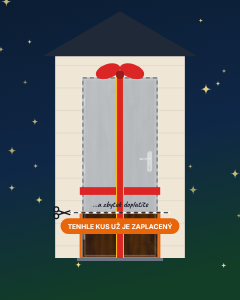
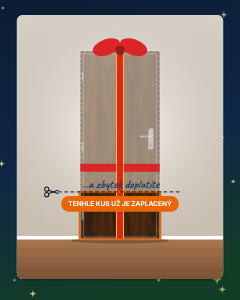
Dárkové poukazy: nový obrázek dveří v interiéru a štítek Moje dveře
Claude-Session: https://claude.ai/code/session_0146mcrxDADoYoPDTfh2mSsr

diff --git a/poukaz/poukaz.js b/poukaz/poukaz.js
@@ -80,107 +80,121 @@
   function logo(g, x, y, w2) { if (IMG.logo) g.drawImage(IMG.logo, x, y, w2, w2 * IMG.logo.naturalHeight / IMG.logo.naturalWidth); }
   function fnt(g, rodina, tloustka, pt, S) { g.font = (tloustka === 'bold' ? '700 ' : '400 ') + (pt * 0.3528 * S) + 'px ' + rodina + ', Arial, sans-serif'; }
 
-  /* ── scéna: dveře s „odstřiženým“ zaplaceným kusem + motiv (x, y, w, h v mm; S = px na mm) ── */
+  /* štítek „Moje dveře · aplikace v ceně“ (jako na webu, moje-dvere-stitek.js); x, y = levý horní roh, v = výška v mm */
+  function mdStitek(g, x, y, v, uhel) {
+    var w2 = v * 3.5;
+    g.save(); g.translate(x + w2 / 2, y + v / 2); g.rotate(uhel == null ? -0.05 : uhel); g.translate(-w2 / 2, -v / 2);
+    g.shadowColor = 'rgba(0,0,0,.3)'; g.shadowBlur = v * 0.5; g.shadowOffsetY = v * 0.12;
+    var gr = g.createLinearGradient(0, 0, w2, v); gr.addColorStop(0, '#1f6b45'); gr.addColorStop(1, '#123d27');
+    g.fillStyle = gr; rr(g, 0, 0, w2, v, v * 0.3); g.fill(); g.shadowColor = 'transparent';
+    g.strokeStyle = '#ffffff'; g.lineWidth = v * 0.07; rr(g, 0, 0, w2, v, v * 0.3); g.stroke();
+    // ikona telefonu se dveřmi
+    var ix = v * 0.28, iy = v * 0.12, iw = v * 0.42, ih = v * 0.76;
+    g.fillStyle = '#ffffff'; rr(g, ix, iy, iw, ih, iw * 0.22); g.fill();
+    g.fillStyle = '#123d27'; rr(g, ix + iw * 0.17, iy + ih * 0.13, iw * 0.66, ih * 0.6, iw * 0.06); g.fill();
+    g.fillStyle = '#ffbe96'; g.fillRect(ix + iw * 0.36, iy + ih * 0.27, iw * 0.3, ih * 0.38);
+    g.fillStyle = '#123d27'; g.beginPath(); g.arc(ix + iw / 2, iy + ih * 0.87, iw * 0.07, 0, Math.PI * 2); g.fill();
+    g.textAlign = 'left'; g.textBaseline = 'alphabetic';
+    g.fillStyle = '#ffffff'; g.font = '700 ' + (v * 0.36) + 'px PKInter, Arial'; g.fillText('Moje dveře', v * 0.88, v * 0.48);
+    g.fillStyle = '#ffbe96'; g.font = '700 ' + (v * 0.22) + 'px PKInter, Arial'; g.fillText('APLIKACE V CENĚ', v * 0.88, v * 0.8);
+    g.restore();
+  }
+
+  /* ── scéna: dveře PREMIUM 60 v interiéru, zaplacený kus „odstřižený“, dekorace podle motivu (rozměry v mm, S = px na mm) ──
+     opt.karta = [x, y, š, v] rámeček s interiérem (jinak se dopočítá z rozměru plochy), opt.stitek = false bez štítku Moje dveře */
   function scena(g, mot, hodnota, X, Y, Wd, Hd, S, cx, opt) {
-    var M = motiv(mot), r = rnd(mot === 'vanoce' ? 12 : mot === 'narozeniny' ? 34 : 56), f = podil(hodnota);
+    opt = opt || {};
+    var M = motiv(mot), r = rnd(mot === 'vanoce' ? 12 : mot === 'narozeniny' ? 34 : 56), f = podil(hodnota), i;
     g.save(); g.scale(S, S); g.translate(X, Y);
     g.beginPath(); g.rect(0, 0, Wd, Hd); g.clip();
     var gr = g.createLinearGradient(0, 0, Wd * 0.3, Hd); gr.addColorStop(0, M.bg[0]); gr.addColorStop(0.55, M.bg[1]); gr.addColorStop(1, M.bg[2]);
     g.fillStyle = gr; g.fillRect(0, 0, Wd, Hd);
-    // rozměry dveří podle panelu
-    var dw = opt && opt.dw ? opt.dw : Math.min(Wd * 0.4, Hd * 0.235), dh = dw * 2.5, dx = (cx == null ? Wd / 2 : cx) - dw / 2, dy = (opt && opt.zem ? opt.zem : Hd * 0.86) - dh, zem = dy + dh;
-    // pozadí motivu
-    if (mot === 'vanoce') {
-      g.fillStyle = 'rgba(255,255,255,.9)'; g.beginPath(); g.arc(dx - dw * 1.15, Math.max(14, dy - dw * 0.55), dw * 0.2, 0, Math.PI * 2); g.fill();
-      g.fillStyle = M.bg[0]; g.beginPath(); g.arc(dx - dw * 1.07, Math.max(14, dy - dw * 0.55) - dw * 0.03, dw * 0.17, 0, Math.PI * 2); g.fill();
-    }
-    // zeď (světlá omítka) kolem dveří
-    var zx = dx - dw * 0.42, zw = dw * 1.84, zy = dy - dw * 0.38;
-    g.fillStyle = mot === 'narozeniny' ? '#fde7d4' : '#efe6d6'; g.fillRect(zx, zy, zw, zem - zy);
-    g.fillStyle = 'rgba(0,0,0,.06)'; for (var i = 0; i < 9; i++) { var by = zy + 4 + i * ((zem - zy) / 9); g.fillRect(zx, by, zw, 0.35); }
-    // střecha nad zdí
-    g.fillStyle = mot === 'darkovy' ? '#1f2937' : '#3b2a20'; g.beginPath(); g.moveTo(zx - dw * 0.18, zy + 0.5); g.lineTo(zx + zw / 2, zy - dw * 0.62); g.lineTo(zx + zw + dw * 0.18, zy + 0.5); g.closePath(); g.fill();
-    // dveře PREMIUM 60 Ořech (fotka z premium60.cz včetně zárubně)
-    var zr = dw * 0.07, ph = dh + zr, pw = ph * (IMG.dvere ? IMG.dvere.naturalWidth / IMG.dvere.naturalHeight : 0.42), px = dx + dw / 2 - pw / 2, py = dy - zr;
-    var yp = zem - dh * f;                    // hranice zaplaceno / zbývá
-    // nezaplacená část: jen bledý obrys dveří
-    g.save(); g.beginPath(); g.rect(px - 1, py - 1, pw + 2, yp - py + 1); g.clip();
-    g.fillStyle = '#ffffff'; g.fillRect(px, py, pw, ph);
-    g.globalAlpha = 0.5; try { g.filter = 'grayscale(1)'; } catch (e) {} if (IMG.dvere) g.drawImage(IMG.dvere, px, py, pw, ph); try { g.filter = 'none'; } catch (e) {} g.globalAlpha = 1;
-    g.fillStyle = 'rgba(226,232,240,.45)'; g.fillRect(px, py, pw, ph);
-    g.setLineDash([1.6, 1.2]); g.strokeStyle = 'rgba(60,60,60,.6)'; g.lineWidth = 0.45; g.strokeRect(px + 0.4, py + 0.4, pw - 0.8, ph);
-    g.setLineDash([]); g.restore();
-    // zaplacená část: skutečné dveře
-    g.save(); g.beginPath(); g.rect(px - 1, yp, pw + 2, zem - yp + 1); g.clip();
+    var K = opt.karta || [Wd * 0.07, Hd * 0.05, Wd * 0.86, Hd * 0.88], kx = K[0], ky = K[1], kw = K[2], kh = K[3];
+    var u = Math.min(kw, kh) / 100;   // měřítko dekorací
+    // částice v pozadí
+    if (mot === 'vanoce') { g.fillStyle = '#ffffff'; for (i = 0; i < 160; i++) { var sx = r() * Wd, sy = r() * Hd, sr = (0.25 + r() * 0.8) * u * 1.4; g.globalAlpha = 0.35 + r() * 0.6; g.beginPath(); g.arc(sx, sy, sr, 0, Math.PI * 2); g.fill(); } }
+    else if (mot === 'narozeniny') { var kb = ['#fde047', '#ffffff', '#22d3ee', '#a3e635', '#f0abfc']; for (i = 0; i < 140; i++) { g.save(); g.translate(r() * Wd, r() * Hd); g.rotate(r() * 6); g.fillStyle = kb[i % kb.length]; g.fillRect(-u, -u * 0.45, u * 2, u * 0.9); g.restore(); } }
+    else { g.fillStyle = '#fde68a'; for (i = 0; i < 40; i++) { g.globalAlpha = 0.4 + r() * 0.6; hvezda4(g, r() * Wd, r() * Hd, (0.8 + r() * 1.8) * u); } }
+    g.globalAlpha = 1;
+    // rámeček s interiérem
+    g.save(); g.shadowColor = 'rgba(0,0,0,.4)'; g.shadowBlur = 3 * u; g.shadowOffsetY = u;
+    g.fillStyle = '#efe7dc'; rr(g, kx, ky, kw, kh, 3 * u); g.fill(); g.restore();
+    g.save(); rr(g, kx, ky, kw, kh, 3 * u); g.clip();
+    var wg = g.createLinearGradient(0, ky, 0, ky + kh); wg.addColorStop(0, '#f4ede3'); wg.addColorStop(1, '#e3d6c4'); g.fillStyle = wg; g.fillRect(kx, ky, kw, kh);
+    var vg = g.createRadialGradient(kx + kw / 2, ky + kh * 0.45, kw * 0.1, kx + kw / 2, ky + kh * 0.45, kw * 0.75); vg.addColorStop(0, 'rgba(255,255,255,.35)'); vg.addColorStop(1, 'rgba(0,0,0,.12)'); g.fillStyle = vg; g.fillRect(kx, ky, kw, kh);
+    var fh = kh * 0.15, fy = ky + kh - fh;            // podlaha
+    var fg = g.createLinearGradient(0, fy, 0, ky + kh); fg.addColorStop(0, '#a8774f'); fg.addColorStop(1, '#7b5236'); g.fillStyle = fg; g.fillRect(kx, fy, kw, fh);
+    g.strokeStyle = 'rgba(0,0,0,.18)'; g.lineWidth = 0.25 * u; for (i = 1; i < 4; i++) { g.beginPath(); g.moveTo(kx, fy + fh * i / 4); g.lineTo(kx + kw, fy + fh * i / 4); g.stroke(); }
+    g.fillStyle = '#ffffff'; g.fillRect(kx, fy - 1.6 * u, kw, 1.6 * u);   // lišta
+    // dveře (fotka PREMIUM 60 se zárubní)
+    var ph = (fy - ky) * 0.84, pw = ph * (IMG.dvere ? IMG.dvere.naturalWidth / IMG.dvere.naturalHeight : 0.42), px = (cx == null ? kx + kw / 2 : cx) - pw / 2, py = fy - ph;
+    g.fillStyle = 'rgba(0,0,0,.25)'; g.beginPath(); g.ellipse(px + pw / 2, fy + 0.6 * u, pw * 0.62, 1.4 * u, 0, 0, Math.PI * 2); g.fill();
     if (IMG.dvere) g.drawImage(IMG.dvere, px, py, pw, ph);
-    g.restore();
-    g.strokeStyle = M.akcent; g.lineWidth = 0.9; g.strokeRect(px - 0.45, yp, pw + 0.9, zem - yp);   // zvýraznění zaplaceného kusu
-    var kx = px + pw * 0.86, ky = py + ph * 0.45;   // klika na fotce (pro balonky)
-    // práh + zem
-    g.fillStyle = '#6b7280'; g.fillRect(px - zr, zem, pw + 2 * zr, 1.2);
-    // motiv – dekorace
+    var dTop = py + ph * 0.02, dBot = fy, dH = dBot - dTop, yp = dBot - dH * f;   // hranice zaplaceno / zbývá
+    var kliX = px + pw * 0.86, kliY = py + ph * 0.45;
+    // nezaplacená část: závoj + čárkovaný obrys
+    if (f < 1) {
+      g.fillStyle = 'rgba(244,237,227,.5)'; g.fillRect(px - 0.3, py - 0.3, pw + 0.6, yp - py + 0.3);
+      g.setLineDash([1.4 * u, 1 * u]); g.strokeStyle = 'rgba(70,60,50,.55)'; g.lineWidth = 0.35 * u; g.strokeRect(px + 0.3 * u, py + 0.3 * u, pw - 0.6 * u, yp - py - 0.3 * u); g.setLineDash([]);
+    }
+    // dekorace na dveřích (nad závojem, ať jsou vidět)
     if (mot === 'vanoce') {
-      // girlanda se světýlky nad dveřmi
-      g.strokeStyle = '#1f6b3d'; g.lineWidth = 2.2; g.lineCap = 'round';
-      g.beginPath(); g.moveTo(dx - zr * 1.5, dy - zr * 1.2); g.quadraticCurveTo(dx + dw / 2, dy + dh * 0.04, dx + dw + zr * 1.5, dy - zr * 1.2); g.stroke();
-      var barvy = ['#fde047', '#ef4444', '#60a5fa', '#fde047', '#f97316'];
-      for (var b = 0; b < 9; b++) { var t = (b + 0.5) / 9, bx = (1 - t) * (1 - t) * (dx - zr * 1.5) + 2 * (1 - t) * t * (dx + dw / 2) + t * t * (dx + dw + zr * 1.5), byy = (1 - t) * (1 - t) * (dy - zr * 1.2) + 2 * (1 - t) * t * (dy + dh * 0.04) + t * t * (dy - zr * 1.2); g.fillStyle = barvy[b % barvy.length]; g.beginPath(); g.arc(bx, byy + 1.2, 0.85, 0, Math.PI * 2); g.fill(); }
-      // věnec
-      var vx = dx + dw / 2, vy = dy + dh * 0.17, vr = dw * 0.19;
+      var vx = px + pw / 2, vy = py + ph * 0.19, vr = pw * 0.2;
       g.strokeStyle = '#1f6b3d'; g.lineWidth = vr * 0.45; g.beginPath(); g.arc(vx, vy, vr, 0, Math.PI * 2); g.stroke();
-      g.strokeStyle = '#2f8a50'; g.lineWidth = vr * 0.16; for (var v = 0; v < 18; v++) { var a = v / 18 * Math.PI * 2; g.beginPath(); g.moveTo(vx + Math.cos(a) * vr * 0.82, vy + Math.sin(a) * vr * 0.82); g.lineTo(vx + Math.cos(a + 0.25) * vr * 1.18, vy + Math.sin(a + 0.25) * vr * 1.18); g.stroke(); }
-      g.fillStyle = '#dc2626'; for (var bb = 0; bb < 7; bb++) { var a2 = bb / 7 * Math.PI * 2 + 0.3; g.beginPath(); g.arc(vx + Math.cos(a2) * vr, vy + Math.sin(a2) * vr, vr * 0.1, 0, Math.PI * 2); g.fill(); }
+      g.strokeStyle = '#2f8a50'; g.lineWidth = vr * 0.16; for (i = 0; i < 18; i++) { var a = i / 18 * Math.PI * 2; g.beginPath(); g.moveTo(vx + Math.cos(a) * vr * 0.82, vy + Math.sin(a) * vr * 0.82); g.lineTo(vx + Math.cos(a + 0.25) * vr * 1.18, vy + Math.sin(a + 0.25) * vr * 1.18); g.stroke(); }
+      g.fillStyle = '#dc2626'; for (i = 0; i < 7; i++) { var a2 = i / 7 * Math.PI * 2 + 0.3; g.beginPath(); g.arc(vx + Math.cos(a2) * vr, vy + Math.sin(a2) * vr, vr * 0.1, 0, Math.PI * 2); g.fill(); }
       g.fillStyle = '#b91c1c'; g.beginPath(); g.moveTo(vx, vy + vr); g.lineTo(vx - vr * 0.45, vy + vr * 0.7); g.lineTo(vx - vr * 0.4, vy + vr * 1.25); g.closePath(); g.fill();
       g.beginPath(); g.moveTo(vx, vy + vr); g.lineTo(vx + vr * 0.45, vy + vr * 0.7); g.lineTo(vx + vr * 0.4, vy + vr * 1.25); g.closePath(); g.fill();
-      // sníh
-      g.fillStyle = '#ffffff'; g.beginPath(); g.moveTo(0, Hd); g.lineTo(0, zem + 2); g.quadraticCurveTo(Wd * 0.25, zem - 3, Wd * 0.5, zem + 1.5); g.quadraticCurveTo(Wd * 0.78, zem + 5, Wd, zem - 1); g.lineTo(Wd, Hd); g.closePath(); g.fill();
-      g.fillStyle = '#ffffff'; for (var s = 0; s < 170; s++) { var sx = r() * Wd, sy = r() * Hd * 0.95, sr = 0.25 + r() * 0.9; if (sx > zx - 2 && sx < zx + zw + 2 && sy > zy - dw * 0.62 && sy < zem) continue; g.globalAlpha = 0.5 + r() * 0.5; g.beginPath(); g.arc(sx, sy, sr, 0, Math.PI * 2); g.fill(); }
-      g.globalAlpha = 1;
-      g.fillStyle = '#ffffff'; g.beginPath(); g.moveTo(zx - dw * 0.2, zy + 0.6); g.quadraticCurveTo(zx + zw / 2, zy - dw * 0.7, zx + zw + dw * 0.2, zy + 0.6); g.lineTo(zx + zw + dw * 0.2, zy + 2.2); g.quadraticCurveTo(zx + zw / 2, zy - dw * 0.45, zx - dw * 0.2, zy + 2.2); g.closePath(); g.fill();
-    } else if (mot === 'narozeniny') {
-      // praporky
-      var px0 = zx - 4, px1 = zx + zw + 4, py = zy + 3, n = 9, pb = ['#facc15', '#22c55e', '#3b82f6', '#ef4444', '#a855f7'];
-      g.strokeStyle = '#7c2d12'; g.lineWidth = 0.35; g.beginPath(); g.moveTo(px0, py); g.quadraticCurveTo((px0 + px1) / 2, py + 7, px1, py); g.stroke();
-      for (var p = 0; p < n; p++) { var tt = (p + 0.5) / n, qx = (1 - tt) * (1 - tt) * px0 + 2 * (1 - tt) * tt * (px0 + px1) / 2 + tt * tt * px1, qy = (1 - tt) * (1 - tt) * py + 2 * (1 - tt) * tt * (py + 7) + tt * tt * py, sw = (px1 - px0) / n * 0.42; g.fillStyle = pb[p % pb.length]; g.beginPath(); g.moveTo(qx - sw, qy); g.lineTo(qx + sw, qy); g.lineTo(qx, qy + sw * 1.8); g.closePath(); g.fill(); }
-      // balonky přivázané ke klice
-      var bal = [['#ef4444', -0.55, 0.06], ['#facc15', -0.1, 0.0], ['#3b82f6', 0.3, 0.08]];
-      bal.forEach(function (q, j) {
-        var bx2 = dx + dw / 2 + q[1] * dw * 2.2 + dw * 0.2, by2 = Hd * (0.12 + q[2]), br = dw * 0.26;
-        g.strokeStyle = 'rgba(255,255,255,.85)'; g.lineWidth = 0.3; g.beginPath(); g.moveTo(kx - dw * 0.1, ky); g.quadraticCurveTo(bx2 - 4 + j * 3, (by2 + ky) / 2, bx2, by2 + br * 1.15); g.stroke();
-        g.fillStyle = q[0]; g.beginPath(); g.ellipse(bx2, by2, br * 0.85, br, 0, 0, Math.PI * 2); g.fill();
-        g.fillStyle = 'rgba(255,255,255,.35)'; g.beginPath(); g.ellipse(bx2 - br * 0.3, by2 - br * 0.35, br * 0.18, br * 0.3, -0.5, 0, Math.PI * 2); g.fill();
+    } else if (mot === 'darkovy') {
+      var sw2 = pw * 0.1;
+      g.fillStyle = '#dc2626'; g.fillRect(px + pw / 2 - sw2 / 2, py, sw2, ph); g.fillRect(px, py + ph * 0.62 - sw2 / 2, pw, sw2);
+      g.fillStyle = '#facc15'; g.fillRect(px + pw / 2 - sw2 / 2, py, sw2 * 0.12, ph); g.fillRect(px + pw / 2 + sw2 * 0.38, py, sw2 * 0.12, ph);
+    }
+    g.strokeStyle = M.akcent; g.lineWidth = 0.8 * u; g.strokeRect(px - 0.4 * u, yp, pw + 0.8 * u, dBot - yp);   // zvýraznění zaplaceného kusu
+    // dekorace kolem dveří
+    if (mot === 'vanoce') {
+      var x0 = px - pw * 0.35, x1 = px + pw * 1.35, y0 = py - 1 * u, sag = 6 * u;
+      g.strokeStyle = '#1f6b3d'; g.lineWidth = 2.6 * u; g.lineCap = 'round'; g.beginPath(); g.moveTo(x0, y0); g.quadraticCurveTo((x0 + x1) / 2, y0 + sag * 2, x1, y0); g.stroke();
+      var barvy = ['#fde047', '#ef4444', '#60a5fa', '#fde047', '#f97316'];
+      for (i = 0; i < 11; i++) { var t = (i + 0.5) / 11, bx = (1 - t) * (1 - t) * x0 + 2 * (1 - t) * t * (x0 + x1) / 2 + t * t * x1, byy = (1 - t) * (1 - t) * y0 + 2 * (1 - t) * t * (y0 + sag * 2) + t * t * y0; g.fillStyle = barvy[i % 5]; g.beginPath(); g.arc(bx, byy + 1.4 * u, 0.9 * u, 0, Math.PI * 2); g.fill(); }
+      // dárky na podlaze
+      [[px - pw * 0.55, 9, '#b91c1c', '#facc15'], [px - pw * 0.28, 6.5, '#15803d', '#fde68a'], [px + pw * 1.08, 8, '#1d4ed8', '#fde68a']].forEach(function (q) {
+        var s2 = q[1] * u, bx2 = q[0], by2 = fy + fh * 0.35 - s2;
+        g.fillStyle = q[2]; g.fillRect(bx2, by2, s2, s2); g.fillStyle = q[3]; g.fillRect(bx2 + s2 * 0.43, by2, s2 * 0.14, s2); g.fillRect(bx2, by2 + s2 * 0.4, s2, s2 * 0.14);
+        g.beginPath(); g.ellipse(bx2 + s2 * 0.35, by2 - s2 * 0.08, s2 * 0.18, s2 * 0.1, -0.4, 0, Math.PI * 2); g.ellipse(bx2 + s2 * 0.65, by2 - s2 * 0.08, s2 * 0.18, s2 * 0.1, 0.4, 0, Math.PI * 2); g.fill();
       });
-      // konfety
-      var kb = ['#fde047', '#ffffff', '#22d3ee', '#a3e635', '#f0abfc'];
-      for (var c = 0; c < 150; c++) { var cx = r() * Wd, cy = r() * Hd * 0.95; if (cx > zx && cx < zx + zw && cy > zy && cy < zem) continue; g.save(); g.translate(cx, cy); g.rotate(r() * 6); g.fillStyle = kb[c % kb.length]; g.fillRect(-0.9, -0.4, 1.8, 0.8); g.restore(); }
+    } else if (mot === 'narozeniny') {
+      var p0 = kx + 3 * u, p1 = kx + kw - 3 * u, py0 = ky + 4 * u, n = 11, pb = ['#facc15', '#22c55e', '#3b82f6', '#ef4444', '#a855f7'];
+      g.strokeStyle = '#7c2d12'; g.lineWidth = 0.35 * u; g.beginPath(); g.moveTo(p0, py0); g.quadraticCurveTo((p0 + p1) / 2, py0 + 8 * u, p1, py0); g.stroke();
+      for (i = 0; i < n; i++) { var tt = (i + 0.5) / n, qx = (1 - tt) * (1 - tt) * p0 + 2 * (1 - tt) * tt * (p0 + p1) / 2 + tt * tt * p1, qy = (1 - tt) * (1 - tt) * py0 + 2 * (1 - tt) * tt * (py0 + 8 * u) + tt * tt * py0, ssw = (p1 - p0) / n * 0.42; g.fillStyle = pb[i % 5]; g.beginPath(); g.moveTo(qx - ssw, qy); g.lineTo(qx + ssw, qy); g.lineTo(qx, qy + ssw * 1.8); g.closePath(); g.fill(); }
+      [['#ef4444', 1.25, 0.33], ['#facc15', 1.55, 0.22], ['#3b82f6', 1.85, 0.36]].forEach(function (q) {
+        var bx3 = px + pw * q[1], by3 = ky + kh * q[2], br = 6 * u;
+        g.strokeStyle = 'rgba(80,60,50,.7)'; g.lineWidth = 0.25 * u; g.beginPath(); g.moveTo(kliX, kliY); g.quadraticCurveTo(bx3 - 2 * u, (by3 + kliY) / 2 + 4 * u, bx3, by3 + br * 1.15); g.stroke();
+        g.fillStyle = q[0]; g.beginPath(); g.ellipse(bx3, by3, br * 0.85, br, 0, 0, Math.PI * 2); g.fill();
+        g.fillStyle = 'rgba(255,255,255,.4)'; g.beginPath(); g.ellipse(bx3 - br * 0.3, by3 - br * 0.35, br * 0.18, br * 0.3, -0.5, 0, Math.PI * 2); g.fill();
+      });
     } else {
-      // stuha přes dveře jako přes dárek + mašle
-      var sw2 = dw * 0.11;
-      g.fillStyle = '#dc2626'; g.fillRect(dx + dw / 2 - sw2 / 2, dy - zr, sw2, dh + zr); g.fillRect(dx - zr, dy + dh * 0.62 - sw2 / 2, dw + 2 * zr, sw2);
-      g.fillStyle = '#facc15'; g.fillRect(dx + dw / 2 - sw2 / 2, dy - zr, sw2 * 0.12, dh + zr); g.fillRect(dx + dw / 2 + sw2 * 0.38, dy - zr, sw2 * 0.12, dh + zr);
-      var mx = dx + dw / 2, my = dy - zr;
-      g.fillStyle = '#dc2626'; g.beginPath(); g.ellipse(mx - dw * 0.17, my - dw * 0.08, dw * 0.18, dw * 0.1, -0.35, 0, Math.PI * 2); g.fill();
-      g.beginPath(); g.ellipse(mx + dw * 0.17, my - dw * 0.08, dw * 0.18, dw * 0.1, 0.35, 0, Math.PI * 2); g.fill();
-      g.fillStyle = '#991b1b'; g.beginPath(); g.arc(mx, my - dw * 0.03, dw * 0.06, 0, Math.PI * 2); g.fill();
-      g.fillStyle = '#fde68a'; for (var h = 0; h < 40; h++) { var hx = r() * Wd, hy = r() * Hd * 0.9; if (hx > zx - 2 && hx < zx + zw + 2 && hy > zy - dw * 0.62 && hy < zem) continue; g.globalAlpha = 0.5 + r() * 0.5; hvezda4(g, hx, hy, 0.8 + r() * 1.6); }
-      g.globalAlpha = 1;
+      var mx = px + pw / 2, my = py + 0.5 * u;
+      g.fillStyle = '#dc2626'; g.beginPath(); g.ellipse(mx - pw * 0.17, my - pw * 0.06, pw * 0.18, pw * 0.1, -0.35, 0, Math.PI * 2); g.fill();
+      g.beginPath(); g.ellipse(mx + pw * 0.17, my - pw * 0.06, pw * 0.18, pw * 0.1, 0.35, 0, Math.PI * 2); g.fill();
+      g.fillStyle = '#991b1b'; g.beginPath(); g.arc(mx, my - pw * 0.02, pw * 0.06, 0, Math.PI * 2); g.fill();
     }
-    // střih: čárkovaná linka s nůžkami na hranici zaplacené části
-    var tagH = Math.min(7.5, dh * 0.09);
+    // střih: čárkovaná linka s nůžkami
+    var tagH = Math.min(7.5, dH * 0.085);
     if (f < 1) {
-      g.setLineDash([1.8, 1.2]); g.strokeStyle = '#ffffff'; g.lineWidth = 0.7; g.beginPath(); g.moveTo(dx - zr * 3, yp); g.lineTo(dx + dw + zr * 3, yp); g.stroke();
-      g.setLineDash([1.8, 1.2]); g.strokeStyle = '#111827'; g.lineWidth = 0.35; g.lineDashOffset = 1.5; g.beginPath(); g.moveTo(dx - zr * 3, yp); g.lineTo(dx + dw + zr * 3, yp); g.stroke();
-      g.setLineDash([]); g.lineDashOffset = 0;
-      nuzky(g, dx - zr * 3 - 3.2, yp, 4.2, '#111827');
-      g.fillStyle = '#111827'; g.textAlign = 'center'; g.font = '700 ' + (dw * 0.12) + 'px PKCaveat, cursive';
-      g.fillText('…a zbytek doplatíte', dx + dw / 2, yp - 2.2);
+      var l0 = px - pw * 0.28, l1 = px + pw * 1.28;
+      g.setLineDash([1.8 * u, 1.2 * u]); g.strokeStyle = '#111827'; g.lineWidth = 0.45 * u; g.beginPath(); g.moveTo(l0, yp); g.lineTo(l1, yp); g.stroke(); g.setLineDash([]);
+      nuzky(g, l0 - 3.2 * u, yp, 4.2 * u, '#111827');
+      g.fillStyle = '#1e3a5f'; g.textAlign = 'center'; g.textBaseline = 'alphabetic'; g.font = '700 ' + (pw * 0.15) + 'px PKCaveat, cursive';
+      g.fillText('…a zbytek doplatíte', px + pw / 2, yp - 1.8 * u);
     }
-    // štítek „Tenhle kus už je zaplacený“
     var txt = f < 1 ? 'TENHLE KUS UŽ JE ZAPLACENÝ' : 'CELÉ DVEŘE ZAPLACENÉ!';
     g.font = '700 ' + (tagH * 0.42) + 'px PKInter, Arial'; var tw = g.measureText(txt).width + tagH * 0.9;
-    var ty = f < 1 ? (zem - yp < tagH + 5 ? zem + 2.2 : yp + 2.2) : dy + dh * 0.8;
-    g.fillStyle = M.akcent; rr(g, dx + dw / 2 - tw / 2, ty, tw, tagH, tagH / 2); g.fill();
-    g.fillStyle = '#ffffff'; g.textAlign = 'center'; g.fillText(txt, dx + dw / 2, ty + tagH * 0.66);
+    var ty = f < 1 ? (dBot - yp < tagH + 5 * u ? fy + (fh - tagH) / 2 : yp + 2 * u) : py + ph * 0.8;
+    g.fillStyle = M.akcent; rr(g, px + pw / 2 - tw / 2, ty, tw, tagH, tagH / 2); g.fill();
+    g.fillStyle = '#ffffff'; g.textAlign = 'center'; g.fillText(txt, px + pw / 2, ty + tagH * 0.66);
+    g.restore();   // konec rámečku
+    if (opt.stitek !== false) mdStitek(g, kx + kw - 30 * u, ky + kh - 6 * u, 10 * u, -0.06);
     g.restore();
   }
 
@@ -226,7 +240,7 @@
     var M = motiv(d.motiv);
     g.save(); g.scale(S, S);
     g.restore();
-    scena(g, d.motiv, d.hodnota, 0, 0, W, H, S, W / 2, { dw: 35, zem: 124 });
+    scena(g, d.motiv, d.hodnota, 0, 0, W, H, S, null, { karta: [24, 10, 162, 116] });
     g.save(); g.scale(S, S);
     // karta
     g.shadowColor = 'rgba(0,0,0,.35)'; g.shadowBlur = 4 * S / S; g.shadowOffsetY = 1;
@@ -317,5 +331,5 @@
   }
 
   w.Poukaz = { MOTIVY: MOTIVY, VZOR_CENA: VZOR_CENA, vychoziMotiv: vychoziMotiv, podil: podil, kc: kc, datum: datum, ready: prepare, kresli: kresli, pdf: pdf, doklad: doklad,
-    scena: function (g, m, h, x, y, ww, hh, S) { return prepare().then(function () { scena(g, m, h, x, y, ww, hh, S); }); } };
+    scena: function (g, m, h, x, y, ww, hh, S, cx, opt) { return prepare().then(function () { scena(g, m, h, x, y, ww, hh, S, cx, opt); }); } };
 })(window);

diff --git a/tools/poukaz/reklamy.html b/tools/poukaz/reklamy.html
@@ -60,7 +60,7 @@ window.go = function (mot) {
     document.querySelectorAll('.ad .v').forEach(function (c) { Poukaz.kresli(c, { motiv: mot, hodnota: +c.dataset.h, cislo: 'DP 1/2026', kod: 'ABCD-EFGH', platnost_do: '2027-12-24', obdarovany: 'Tomáš a Petra', venovani: 'Ať vám nové dveře hlídají nový domov. Veselé Vánoce!', od_koho: 'Mamka a taťka' }, 4); });
     document.querySelectorAll('.snow').forEach(function (c) { var r = c.parentNode.getBoundingClientRect(); c.width = r.width; c.height = r.height; var g = c.getContext('2d'), s = 7; g.fillStyle = '#fff';
       for (var i = 0; i < 160; i++) { s = (s * 16807) % 2147483647; var x = s % c.width; s = (s * 16807) % 2147483647; var y = s % c.height; s = (s * 16807) % 2147483647; g.globalAlpha = .25 + (s % 60) / 100; g.beginPath(); g.arc(x, y, 1.5 + s % 4, 0, 7); g.fill(); } });
-    [['b1', 'vanoce'], ['b2', 'darkovy']].forEach(function (x) { var c = document.getElementById(x[0]); var g = c.getContext('2d'); g.clearRect(0, 0, 240, 300); Poukaz.scena(g, x[1], 10000, 0, 0, 96, 120, 2.5); });
+    [['b1', 'vanoce'], ['b2', 'darkovy']].forEach(function (x) { var c = document.getElementById(x[0]); var g = c.getContext('2d'); g.clearRect(0, 0, 240, 300); Poukaz.scena(g, x[1], 10000, 0, 0, 96, 120, 2.5, null, { stitek: false }); });
     return new Promise(function (ok) { setTimeout(ok, 300); });
   });
 };

diff --git a/darkovy-poukaz.html b/darkovy-poukaz.html
@@ -116,7 +116,7 @@
     <span class="section-label" id="pv-label">Dárkový poukaz</span>
     <h1>Darujte kus nových dveří</h1>
     <p>Dárkový poukaz na bezpečnostní dveře do bytu, vchodové dveře do domu i interiérové dveře – včetně montáže. Vyberete částku, motiv a napíšete věnování. Poukaz v PDF pošleme e-mailem hned, jak dorazí platba.</p>
-    <div class="hero-chips"><span class="on">1 000 – 10 000 Kč i vlastní částka</span><span>platí 12 měsíců</span><span>PDF k vytištění nebo vytištěný ve vzorkovně</span></div>
+    <div class="hero-chips"><span class="on">1 000 – 10 000 Kč i vlastní částka</span><span>platí 12 měsíců</span><span>PDF k vytištění nebo vytištěný ve vzorkovně</span><span><a href="moje-dvere.html" style="color:inherit">ke dveřím aplikace Moje dveře v ceně</a></span></div>
     <div class="breadcrumb"><a href="index.html">Úvod</a><span>›</span><span>Dárkový poukaz</span></div>
   </div>
 </div>
